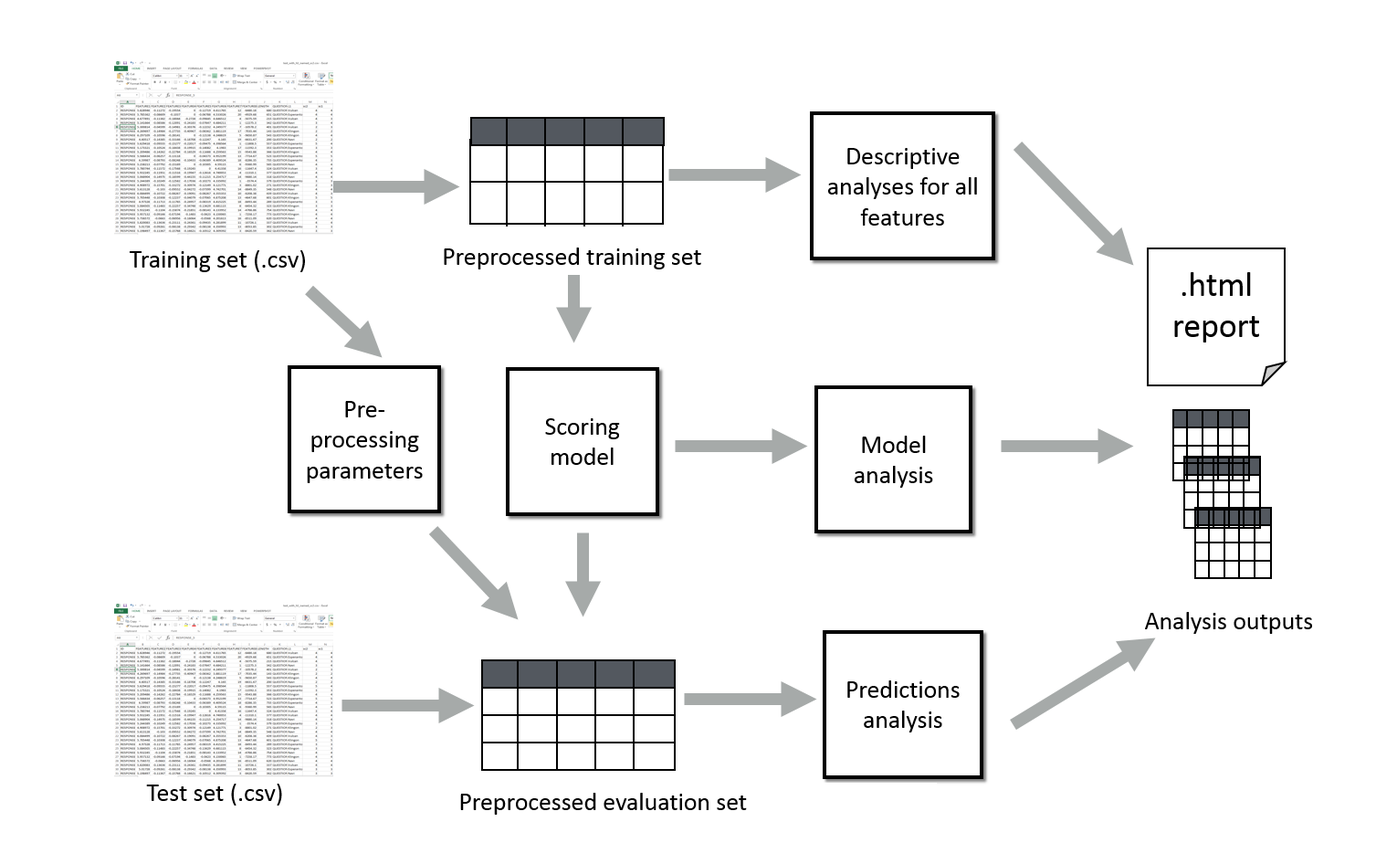
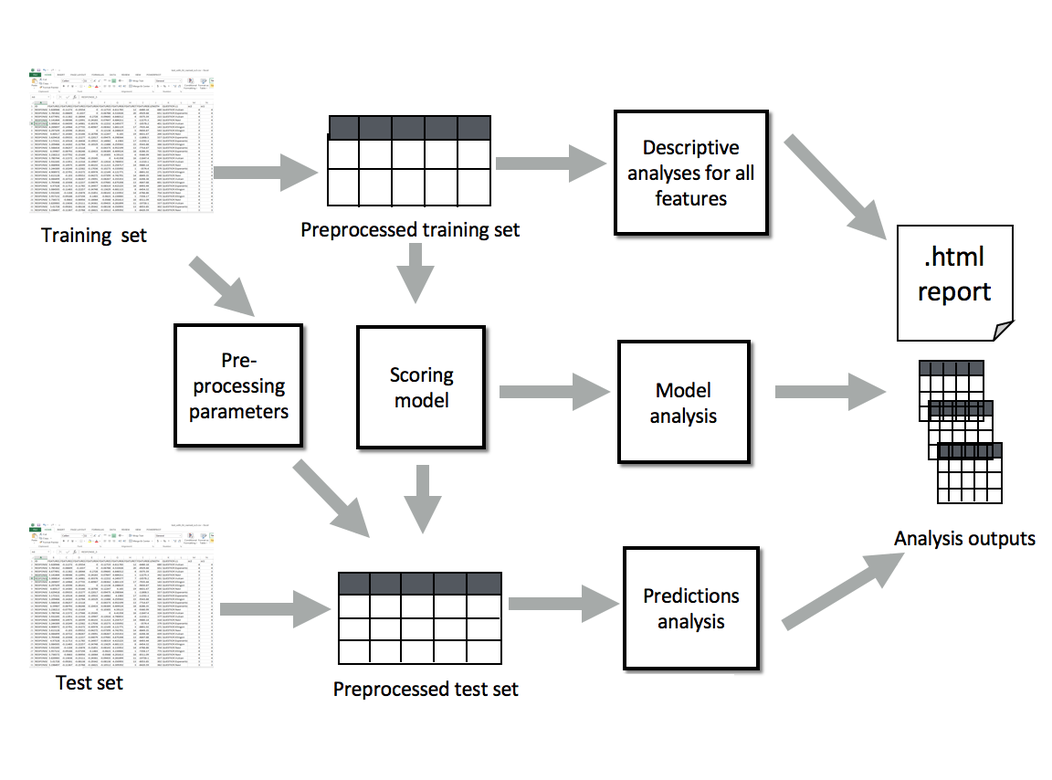
Updated documentation

Changed region(s): [[0.0312, 0.0609, 1.0, 0.9438], [0.2188, 0.0609, 0.25, 0.0913]]

diff --git a/doc/column_selection_rsmtool.rst b/doc/column_selection_rsmtool.rst
@@ -3,7 +3,7 @@
 Selecting Feature Columns
 -------------------------
 
-By default, ``rsmtool`` will use all columns included in the training and evaluation ``.csv`` files as features. The only exception are any columns explicitly identified in the configuration file as containing non-feature information (e.g., :ref:`id_column <id_column_rsmtool>`, :ref:`train_label_column <train_label_column_rsmtool>`, :ref:`test_label_column <test_label_column_rsmtool>`, etc.)
+By default, ``rsmtool`` will use all columns included in the training and evaluation data files as features. The only exception are any columns explicitly identified in the configuration file as containing non-feature information (e.g., :ref:`id_column <id_column_rsmtool>`, :ref:`train_label_column <train_label_column_rsmtool>`, :ref:`test_label_column <test_label_column_rsmtool>`, etc.)
 
 However, there are certain scenarios in which it is useful to choose specific columns in the data to be used as features. For example, let's say that you have a large number of very different features and you want to use a different subset of features to score different types of questions on a test. In this case, the ability to easily choose the desired features for any ``rsmtool`` experiment becomes quite important. The alternative of manually pre-processing the data to remove the features you don't need is quite cumbersome.
 
@@ -52,7 +52,7 @@ There are three required fields.
 
 feature
 """""""
-The exact name of the column in the training and evaluation ``.csv`` files, including capitalization. Column names cannot contain hyphens. The following strings are reserved and cannot not be used as feature column names: ``spkitemid``, ``spkitemlab``, ``itemType``, ``r1``, ``r2``, ``score``, ``sc``, ``sc1``, and ``adj``. In addition, any column names provided as values for  ``id_column``, ``train_label_column``, ``test_label_column``, ``length_column``, ``candidate_column``, and ``subgroups`` may also not be used as feature column names.
+The exact name of the column in the training and evaluation data files, including capitalization. Column names cannot contain hyphens. The following strings are reserved and cannot not be used as feature column names: ``spkitemid``, ``spkitemlab``, ``itemType``, ``r1``, ``r2``, ``score``, ``sc``, ``sc1``, and ``adj``. In addition, any column names provided as values for  ``id_column``, ``train_label_column``, ``test_label_column``, ``length_column``, ``candidate_column``, and ``subgroups`` may also not be used as feature column names.
 
 .. _json_transformation:
 
@@ -67,7 +67,7 @@ A transformation that should be applied to the column values before using it in 
     * ``addOneInv``: 1/(x+1)
     * ``addOneLn``: ln(x+1)
 
-Note that ``rsmtool`` will raise an exception if the values in the data do not allow the supplied transformation (for example, if ``inv`` is applied to a column which has 0 values). If you really want to use the tranformation, you must pre-process your training and evaluation ``.csv`` files to remove the problematic cases.
+Note that ``rsmtool`` will raise an exception if the values in the data do not allow the supplied transformation (for example, if ``inv`` is applied to a column which has 0 values). If you really want to use the tranformation, you must pre-process your training and evaluation data files to remove the problematic cases.
 
 sign
 """"
@@ -85,11 +85,11 @@ To ensure that this is working as expected, you can check the sign of correlatio
 
 Subset-based column selection
 ^^^^^^^^^^^^^^^^^^^^^^^^^^^^^
-For more advanced users, ``rsmtool`` offers the ability to assign columns to named subsets in a ``.csv`` file and then select a set of columns by simply specifying the name of that pre-defined subset.
+For more advanced users, ``rsmtool`` offers the ability to assign columns to named subsets in a data file in one of the :ref:`supported formats <input_file_format>` and then select a set of columns by simply specifying the name of that pre-defined subset.
 
 If you want to run multiple ``rsmtool`` experiments, each choosing from a large number of features, generating a separate :ref:`json file <json_column_selection>` for each experiment listing columns to use can quickly become tedious.
 
-Instead you can define feature subsets by providing a subset definition ``.csv`` file which lists *all* feature names under a column named ``Feature``. Each subset is an additional column with a value of either ``0`` (denoting that the feature does *not* belong to the subset named by that column) or ``1`` (denoting that the feature does belong to the subset named by that column).
+Instead you can define feature subsets by providing a subset definition file in one of the :ref:`supported formats <input_file_format>` which lists *all* feature names under a column named ``Feature``. Each subset is an additional column with a value of either ``0`` (denoting that the feature does *not* belong to the subset named by that column) or ``1`` (denoting that the feature does belong to the subset named by that column).
 
 Here's an example of a subset definition file, say ``subset.csv``.
 
@@ -102,7 +102,7 @@ Here's an example of a subset definition file, say ``subset.csv``.
 
 In this example, ``feature2`` and ``feature3`` belong to a subset called "A" and ``feature1`` and ``feature1`` and ``feature2`` belong to a subset called "B".
 
-This ``.csv`` file can be provided to ``rsmtool`` using the :ref:`feature_subset_file <feature_subset_file>` field in the configuration file. Then, to select a particular pre-defined subset of features, you simply set the :ref:`feature_subset  <feature_subset>` field in the configuration file to the name of the subset that you wish to use.
+This feature subset file can be provided to ``rsmtool`` using the :ref:`feature_subset_file <feature_subset_file>` field in the configuration file. Then, to select a particular pre-defined subset of features, you simply set the :ref:`feature_subset  <feature_subset>` field in the configuration file to the name of the subset that you wish to use.
 
 Then, in order to use feature subset "A" (``feature2`` and ``feature3``) in an experiment, we need to set the following two fields in our experiment configuration file:
 
@@ -119,13 +119,13 @@ Then, in order to use feature subset "A" (``feature2`` and ``feature3``) in an e
 
 Transformations
 """""""""""""""
-Unlike in :ref:`fine-grained selection <json_column_selection>`, the subset ``.csv`` file does not list any transformations to be applied to the feature columns. However, you can automatically select transformation for each feature *in the selected subset* by applying all possible transforms and identifying the one which gives the highest correlation with the human score. To use this functionality set the :ref:`select_transformations <select_transformations_rsmtool>` field in the configuration file to ``true``.
+Unlike in :ref:`fine-grained selection <json_column_selection>`, the feature subset file does not list any transformations to be applied to the feature columns. However, you can automatically select transformation for each feature *in the selected subset* by applying all possible transforms and identifying the one which gives the highest correlation with the human score. To use this functionality set the :ref:`select_transformations <select_transformations_rsmtool>` field in the configuration file to ``true``.
 
 .. _subset_sign:
 
 Signs
 """""
-Some guidelines for building scoring models require all coefficients in the model to be positive and all features to have a positive correlation with human score. ``rsmtool`` can automatically flip the sign for any pre-defined feature subset. To use this functionality, the feature subset ``.csv`` file should provide the expected correlation sign between each feature and human score under a column called ``sign_<SUBSET>`` where ``<SUBSET>`` is the name of the feature subset. Then, to tell ``rsmtool`` to flip the the sign for this subset, you need to set the :ref:`sign <sign>` field in the configuration file to ``<SUBSET>``.
+Some guidelines for building scoring models require all coefficients in the model to be positive and all features to have a positive correlation with human score. ``rsmtool`` can automatically flip the sign for any pre-defined feature subset. To use this functionality, the feature subset file should provide the expected correlation sign between each feature and human score under a column called ``sign_<SUBSET>`` where ``<SUBSET>`` is the name of the feature subset. Then, to tell ``rsmtool`` to flip the the sign for this subset, you need to set the :ref:`sign <sign>` field in the configuration file to ``<SUBSET>``.
 
 To understand this, let's re-examine our earlier example of a subset definition file ``subset.csv``, but with an additional column.
 

diff --git a/doc/config_rsmtool.rst b/doc/config_rsmtool.rst
@@ -17,11 +17,11 @@ The machine learner you want to use to build the scoring model. Possible values 
 
 train_file
 """"""""""
-The path to the training data feature file in ``.csv`` format. Each row should correspond to a single response and contain numeric feature values extracted for this response. In addition, there should be a column with a unique identifier (ID) for each response and a column with the human score for each response. The path can be absolute or relative to the location of config file.
+The path to the training data feature file in one of the :ref:`supported formats <input_file_format>`. Each row should correspond to a single response and contain numeric feature values extracted for this response. In addition, there should be a column with a unique identifier (ID) for each response and a column with the human score for each response. The path can be absolute or relative to the location of config file.
 
 test_file
 """""""""
-The path to the evaluation data feature file in ``.csv`` format. Each row should correspond to a single response and contain numeric feature values extracted for this response. In addition, there should be a column with a unique identifier (ID) for each response and a column with the human score for each response. The path can be absolute or relative to the location of config file.
+The path to the evaluation data feature file in one of the :ref:`supported formats <input_file_format>`. Each row should correspond to a single response and contain numeric feature values extracted for this response. In addition, there should be a column with a unique identifier (ID) for each response and a column with the human score for each response. The path can be absolute or relative to the location of config file.
 
 description *(Optional)*
 """"""""""""""""""""""""
@@ -51,7 +51,7 @@ sign *(Optional)*
 """""""""""""""""
 See below.
 
-By default, ``rsmtool`` will use all of the columns present in the training and evaluation CSV files as features except for any columns explicitly identified in the configuration file (see below). These four fields are useful if you want to use only a specific set of columns as features. See :ref:`selecting feature columns <column_selection_rsmtool>` for more details.
+By default, ``rsmtool`` will use all of the columns present in the training and evaluation files as features except for any columns explicitly identified in the configuration file (see below). These four fields are useful if you want to use only a specific set of columns as features. See :ref:`selecting feature columns <column_selection_rsmtool>` for more details.
 
 .. _id_column_rsmtool:
 

diff --git a/doc/pipeline.rst b/doc/pipeline.rst
@@ -8,13 +8,24 @@ The following figure gives an overview of the RSMTool pipeline:
    :align: center
 
 
-As its primary input, RSMTool takes a CSV feature file with numeric, non-sparse features and a human score as input, :ref:`pre-processes <feature_preprocessing>` them and lets you train a regression-based **Scoring Model** to predict the human score from the features. Available regression models include Ridge, SVR, AdaBoost, and Random Forests, among many others.
+As its primary input, RSMTool takes a :ref:`data file <input_file_format>` containing a table with numeric, non-sparse features and a human scores for all responses, :ref:`pre-processes <feature_preprocessing>` them and lets you train a regression-based **Scoring Model** to predict the human score from the features. Available regression models include Ridge, SVR, AdaBoost, and Random Forests, among many others.
 
 This trained model can then be used to generate scores for a held-out evaluation data whose feature values are pre-processed using the same :ref:`Pre-processing Parameters <preprocessing_parameters>`. In addition to the raw scores predicted by the model, the **Prediction Analysis** component of the pipline generates several additional :ref:`post-processed scores <score_postprocessing>` that are commonly used in automated scoring.
 
 The primary output of RSMTool is a comprehensive, customizable HTML statistical report that contains the multiple analyses required for a comprehensive evaluation of an automated scoring model including descriptive analyses for all features, model analyses, subgroup comparisons, as well as several different evaluation measures illustrating model efficacy [#]_. More Details about these analyses can be found in a separate `technical paper <https://github.com/EducationalTestingService/rsmtool/raw/master/doc/rsmtool.pdf>`_.
 
 In addition to the HTML report, RSMTool also saves the intermediate outputs of all of the performed analyses as :ref:`CSV files <intermediate_files_rsmtool>`.
+
+
+.. _input_file_format:
+
+Input file format
+"""""""""""""""""
+
+The input files containing feature values and scores for all responses in training and evaluation data should be in tabular format with features and scores stored in columns and each row correponding to a single response.
+
+RSMTool supports input files in ``.csv``, ``.tsv`` or ``.xlsx`` format. For Excel spreadsheets all data must be stored in the first sheet. The format of the file is determined based on the extension. In all cases the :ref:`output files<intermediate_files_rsmtool>` will be saved in ``.csv`` format. 
+
 
 .. _feature_preprocessing:
 

diff --git a/doc/intermediate_files_rsmtool.rst b/doc/intermediate_files_rsmtool.rst
@@ -7,7 +7,7 @@ Although the primary output of RSMTool is an HTML report, we also want the user 
 
 .. note::
 
-    The names of all files begin with the ``experiment_id`` provided by the user in the experiment configuration file. In addition, the names for certain columns are set to default values in these files irrespective of what they were named in the original ``.csv`` files. This is because RSMTool standardizes these column names internally for convenience. These values are:
+    The names of all files begin with the ``experiment_id`` provided by the user in the experiment configuration file. In addition, the names for certain columns are set to default values in these files irrespective of what they were named in the original data files. This is because RSMTool standardizes these column names internally for convenience. These values are:
 
     - ``spkitemid`` for the column containing response IDs.
     - ``sc1`` for the column containing the human scores used as training labels.
@@ -38,7 +38,7 @@ These files contain all of the rows in the training and evaluation sets that wer
 
 .. note::
 
-    If the training/evaluation ``.csv`` files contained columns with internal names such as ``sc1`` or ``length`` but these columns were not actually used by ``rsmtool``, these columns will also be included into these files but their names will be changed to ``##name##`` (e.g. ``##sc1##``).
+    If the training/evaluation files contained columns with internal names such as ``sc1`` or ``length`` but these columns were not actually used by ``rsmtool``, these columns will also be included into these files but their names will be changed to ``##name##`` (e.g. ``##sc1##``).
 
 Excluded responses
 ^^^^^^^^^^^^^^^^^^
@@ -62,7 +62,7 @@ These files contain all of the the columns from the original features files that
 
 .. note::
 
-    If the training/evaluation ``.csv`` files contained columns with internal names such as ``sc1`` or ``length`` but these columns were not actually used by ``rsmtool``, these columns will also be included into these files but their names will be changed to ``##name##`` (e.g. ``##sc1##``).
+    If the training/evaluation files contained columns with internal names such as ``sc1`` or ``length`` but these columns were not actually used by ``rsmtool``, these columns will also be included into these files but their names will be changed to ``##name##`` (e.g. ``##sc1##``).
 
 Response length
 ^^^^^^^^^^^^^^^

diff --git a/doc/tutorial_rsmpredict.rst b/doc/tutorial_rsmpredict.rst
@@ -16,7 +16,7 @@ Workflow
 
 Once you have the features for the new data and the RSMTool model, using ``rsmpredict`` is fairly straightforward:
 
-1. Create a ``.csv`` file containing the features for the new data.
+1. Create a file containing the features for the new data. The file should be in one of the :ref:`supported formats <input_file_format>`.
 2. Create an :ref:`experiment configuration file <config_file_rsmpredict>` describing the  experiment you would like to run.
 3.  Run that configuration file with :ref:`rsmpredict <usage_rsmpredict>` to generate the predicted scores.
 
@@ -54,7 +54,7 @@ Let's take a look at the options in our configuration file.
 
 - **Line 2**: We give the path to the directory containing the output of the ``rsmtool`` experiment.
 - **Line 3**: We provide the ``experiment_id`` of the ``rsmtool`` experiment used to train the model. This can usually be read off the ``output/<experiment_id>.model`` file in the ``rsmtool`` experiment output directory.
-- **Line 4**: We list the path to the ``.csv`` file with the feature values for the new data.
+- **Line 4**: We list the path to the data file with the feature values for the new data.  For this tutorial we used `.csv` format, but RSMTool also supports several other :ref:`input file formats <input_file_format>`.
 - **Line 5**: This field indicates that the unique IDs for the responses in the ``.csv`` file are located in a column named ``ID``.
 - **Lines 6-7**: These fields indicates that there are two sets of human scores in our ``.csv`` file located in the columns named ``score`` and ``score2``. The values from these columns will be added to the output file containing the predictions which can be useful if we want to evaluate the predictions using ``rsmeval``.
 
@@ -62,7 +62,7 @@ Documentation for all of the available configuration options is available :ref:`
 
 Run the experiment
 ~~~~~~~~~~~~~~~~~~
-Now that we have the model, the features in ``.csv`` format, and our configuration file in ``.json`` format, we can use the :ref:`rsmpredict <usage_rsmpredict>` command-line script to generate the predictions and to save them in ``predictions.csv``.
+Now that we have the model, the features in the right format, and our configuration file in ``.json`` format, we can use the :ref:`rsmpredict <usage_rsmpredict>` command-line script to generate the predictions and to save them in ``predictions.csv``.
 
 .. code-block:: bash
 

diff --git a/doc/tutorial_rsmeval.rst b/doc/tutorial_rsmeval.rst
@@ -10,7 +10,7 @@ Workflow
 
 ``rsmeval`` is designed for evaluating existing machine scores. Once you have the scores computed for all the responses in your data, the next steps are fairly straightforward:
 
-1. Create a ``.csv`` file containing the computed system scores and the human scores you want to compare against.
+1. Create a data file in one of the :ref:`supported formats <input_file_format>` containing the computed system scores and the human scores you want to compare against.
 2. Create an :ref:`experiment configuration file <config_file_rsmeval>` describing the evaluation experiment you would like to run.
 3.  Run that configuration file with :ref:`rsmeval <usage_rsmeval>` and generate the experiment HTML report as well as the :ref:`intermediate CSV files <intermediate_files_rsmeval>`.
 4. Examine the HTML report to check various aspects of model performance.
@@ -39,7 +39,7 @@ Let's take a look at the options in our configuration file.
 
 - **Line 2**: We define an experiment ID.
 - **Line 3**: We also provide a description which will be included in the experiment report.
-- **Line 4**: We list the path to the ``.csv`` with the predicted and human scores.
+- **Line 4**: We list the path to the file with the predicted and human scores. For this tutorial we used `.csv` format, but RSMTool also supports several other :ref:`input file formats <input_file_format>`.
 - **Line 5**: This field indicates that the system scores in our ``.csv`` file are located in a column named ``system``.
 - **Line 6**: This field indicates that the human (reference) scores in our ``.csv`` file are located in a column named ``human``.
 - **Line 7**: This field indicates that the unique IDs for the responses in the ``.csv`` file are located in columns named ``ID``.
@@ -51,7 +51,7 @@ Documentation for all of the available configuration options is available :ref:`
 
 Run the experiment
 ~~~~~~~~~~~~~~~~~~
-Now that we have our scores in ``.csv`` format and our configuration file in ``.json`` format, we can use the :ref:`rsmeval <usage_rsmeval>` command-line script to run our evaluation experiment.
+Now that we have our scores in the right format and our configuration file in ``.json`` format, we can use the :ref:`rsmeval <usage_rsmeval>` command-line script to run our evaluation experiment.
 
 .. code-block:: bash
 

diff --git a/doc/tutorial.rst b/doc/tutorial.rst
@@ -14,7 +14,7 @@ Workflow
 
 Once you have the features extracted from your data, using RSMTool is fairly straightforward:
 
-1. Make sure your data is split into a training set and a held-out evaluation set. You will need two ``.csv`` files containing the feature values: one for each set.
+1. Make sure your data is split into a training set and a held-out evaluation set. You will need two files containing the feature values: one for each set. The files should be in one of the :ref:`supported formats <input_file_format>`
 2. Create an :ref:`experiment configuration file <config_file_rsmtool>` describing the modeling experiment you would like to run.
 3.  Run that configuration file with :ref:`rsmtool <usage_rsmtool>` and generate the experiment HTML report as well as the :ref:`intermediate CSV files <intermediate_files_rsmtool>`.
 4. Examine the HTML report to check various aspects of model performance.
@@ -62,7 +62,7 @@ The next step is to create an :ref:`RSMTool experiment configuration file <confi
 Let's take a look at the options in our configuration file.
 
 - **Line 2**: We define an experiment ID
-- **Lines 3-4**: We list the paths to our training and evaluation ``.csv`` files with the feature values.
+- **Lines 3-4**: We list the paths to our training and evaluation files with the feature values.  For this tutorial we used `.csv` format, but RSMTool also supports several other :ref:`input file formats <input_file_format>`.
 - **Line 5**: We choose to use a linear regression model to combine those features into a score.
 - **Line 6**: We also provide a description which will be included in the experiment report.
 - **Lines 7-8**: These two fields indicate that the human scores in the two ``.csv`` files are located in columns named ``score``.
@@ -80,7 +80,7 @@ Documentation for all of the available configuration options is available :ref:`
 
 Run the experiment
 ^^^^^^^^^^^^^^^^^^
-Now that we have our features in ``.csv`` format and our configuration file in ``.json`` format, we can use the :ref:`rsmtool <usage_rsmtool>` command-line script to run our modeling experiment.
+Now that we have our features in right format and our configuration file in ``.json`` format, we can use the :ref:`rsmtool <usage_rsmtool>` command-line script to run our modeling experiment.
 
 .. code-block:: bash
 

diff --git a/doc/config_rsmeval.rst b/doc/config_rsmeval.rst
@@ -13,7 +13,7 @@ An identifier for the experiment that will be used to name the report and all :r
 
 predictions_file
 ~~~~~~~~~~~~~~~~
-The path to the ``.csv`` file with predictions to evaluate. Each row should correspond to a single response and contain the predicted and observed scores for this response. In addition, there should be a column with a unique identifier (ID) for each response. The path can be absolute or relative to the location of the configuration file.
+The path to the file with predictions to evaluate. The file should be in one of the :ref:`supported formats <input_file_format>`. Each row should correspond to a single response and contain the predicted and observed scores for this response. In addition, there should be a column with a unique identifier (ID) for each response. The path can be absolute or relative to the location of the configuration file.
 
 system_score_column
 ~~~~~~~~~~~~~~~~~~~
@@ -71,7 +71,7 @@ scale_with *(Optional)*
 ~~~~~~~~~~~~~~~~~~~~~~~
 In many scoring applications, system scores are :ref:`re-scaled <score_postprocessing>` so that their mean and standard deviation match those of the human scores for the training data.
 
-If you want ``rsmeval`` to re-scale the supplied predictions, you need to provide -- as the value for this field -- the path to a second ``.csv`` file containing the human scores and predictions of the same system on its training data. This file *must* have two columns: the human scores under the ``sc1`` column and the predicted score under the ``prediction``.
+If you want ``rsmeval`` to re-scale the supplied predictions, you need to provide -- as the value for this field -- the path to a second file in one of the :ref:`supported formats <input_file_format>` containing the human scores and predictions of the same system on its training data. This file *must* have two columns: the human scores under the ``sc1`` column and the predicted score under the ``prediction``.
 
 This field can also be set to ``"asis"`` if the scores are already scaled. In this case, no additional scaling will be performed by ``rsmeval`` but the report will refer to the scores as "scaled".
 

diff --git a/doc/config_rsmpredict.rst b/doc/config_rsmpredict.rst
@@ -16,7 +16,7 @@ The ``experiment_id`` used to create the ``rsmtool`` model files being used for 
 
 input_feature_file
 ~~~~~~~~~~~~~~~~~~
-The path to the ``.csv`` file with the raw feature values that will be used for generating predictions. Each row should correspond to a single response and contain feature values for this response. In addition, there should be a column with a unique identifier (ID) for each response. The path can be absolute or relative to the location of config file. Note that the feature names *must* be the same as used in the original ``rsmtool`` experiment.
+The path to the file with the raw feature values that will be used for generating predictions. The file should be in one of the :ref:`supported formats <input_file_format>` Each row should correspond to a single response and contain feature values for this response. In addition, there should be a column with a unique identifier (ID) for each response. The path can be absolute or relative to the location of config file. Note that the feature names *must* be the same as used in the original ``rsmtool`` experiment.
 
 
 .. note::

diff --git a/doc/intermediate_files_rsmeval.rst b/doc/intermediate_files_rsmeval.rst
@@ -6,7 +6,7 @@ Although the primary output of ``rsmeval`` is an HTML report, we also want the u
 
 .. note::
 
-    The names of all files begin with the ``experiment_id`` provided by the user in the experiment configuration file. In addition, the names for certain columns are set to default values in these files irrespective of what they were named in the original ``.csv`` files. This is because RSMEval standardizes these column names internally for convenience. These values are:
+    The names of all files begin with the ``experiment_id`` provided by the user in the experiment configuration file. In addition, the names for certain columns are set to default values in these files irrespective of what they were named in the original data files. This is because RSMEval standardizes these column names internally for convenience. These values are:
 
     - ``spkitemid`` for the column containing response IDs.
     - ``sc1`` for the column containing the human scores used as observed scores
